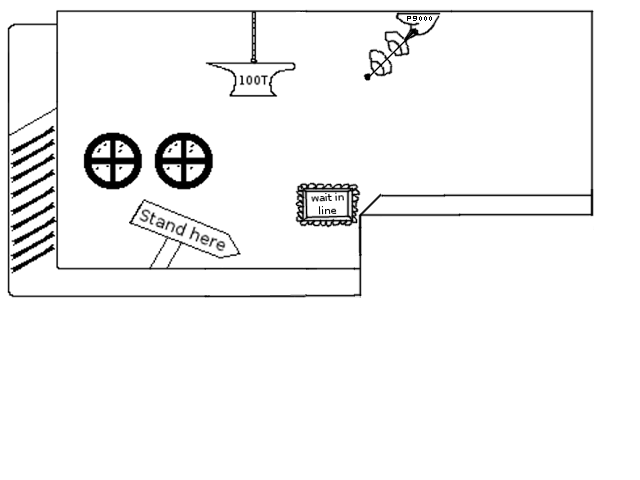
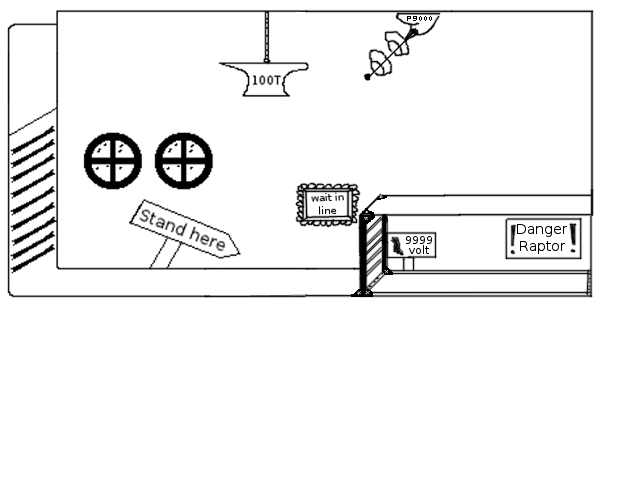
added raptor in cage; realigned some positions with the trapdoor;

Changed region(s): [[0.5312, 0.4375, 0.9375, 0.625], [0.3125, 0.0312, 0.5, 0.2188]]

diff --git a/src/Raptor.js b/src/Raptor.js
@@ -1,0 +1,28 @@
+function Raptor() {
+    Raptor.superclass.constructor.call(this)
+}
+
+Raptor.inherit(Person, {
+    type: "raptor",
+    
+    loadTexture: function() {
+        var texture = new cc.Texture2D({ file: "gfx/raptor.png" });
+
+        var animFrames = [
+            new cc.SpriteFrame({ texture: texture, rect: new cc.Rect(130 * 0, 70 * 0, 130, 70) }),
+            new cc.SpriteFrame({ texture: texture, rect: new cc.Rect(130 * 1, 70 * 0, 130, 70) })
+        ];
+
+        this.sprite = new cc.Sprite({
+            texture:texture,
+            rect: animFrames[0].rect
+        });
+        
+        var animation = new cc.Animation({ frames: animFrames, delay: 1.05 });
+        var animate   = new cc.Animate({ animation: animation, restoreOriginalFrame: false });
+        this.idleSeq  = new cc.Sequence({ actions: [animate] });
+    },
+    
+    update:function(dt) {
+    },
+});

diff --git a/src/maps/UfoWelcomeMap.js b/src/maps/UfoWelcomeMap.js
@@ -51,8 +51,8 @@ UfoWelcomeMap.inherit(Map, {
         ]);
         
         var trapdoor = new Trapdoor();
-        trapdoor.position = new cc.Point(250, 190);
-        trapdoor.open();
+        trapdoor.position = new cc.Point(265, 190);
+        //trapdoor.open();
         game.addChild(trapdoor);
         
         var alien1 = new Alien();
@@ -61,6 +61,10 @@ UfoWelcomeMap.inherit(Map, {
         alien2.position = new cc.Point(450+ alien1.contentSize.width, 310);
         game.addChild(alien1);
         game.addChild(alien2);
+        
+        var raptor = new Raptor();
+        raptor.position = new cc.Point(500, 222);
+        game.addChild(raptor);
     },
     
     update:function(dt) {

diff --git a/index.html b/index.html
@@ -17,6 +17,7 @@
         
         <script src="src/CallbackSensor.js" type="text/javascript" charset="utf-8"></script>
         <script src="src/Alien.js" type="text/javascript" charset="utf-8"></script>
+        <script src="src/Raptor.js" type="text/javascript" charset="utf-8"></script>
         <script src="src/Cat.js" type="text/javascript" charset="utf-8"></script>
         <script src="src/ContactListener.js" type="text/javascript" charset="utf-8"></script>
         <script src="src/Crate.js" type="text/javascript" charset="utf-8"></script>

diff --git a/src/main.js b/src/main.js
@@ -34,6 +34,7 @@ $(function() {
     registerResource("gfx/insideph0toshopbar.png", "image/png");
     registerResource("gfx/UfoWelcomeMap.png", "image/png");
     registerResource("gfx/alien.png", "image/png");
+    registerResource("gfx/raptor.png", "image/png");
     registerResource("gfx/trapdoor.png", "image/png");
     
 

diff --git a/src/Alien.js b/src/Alien.js
@@ -4,10 +4,6 @@ function Alien() {
 
 Alien.inherit(Person, {
     type: "alien",
-    onDeathCallback: function() {
-        this.game.engine.playerProfile.addDeath();
-        this.game.reset();
-    },
     
     loadTexture: function() {
         var texture = new cc.Texture2D({ file: "gfx/alien.png" });
